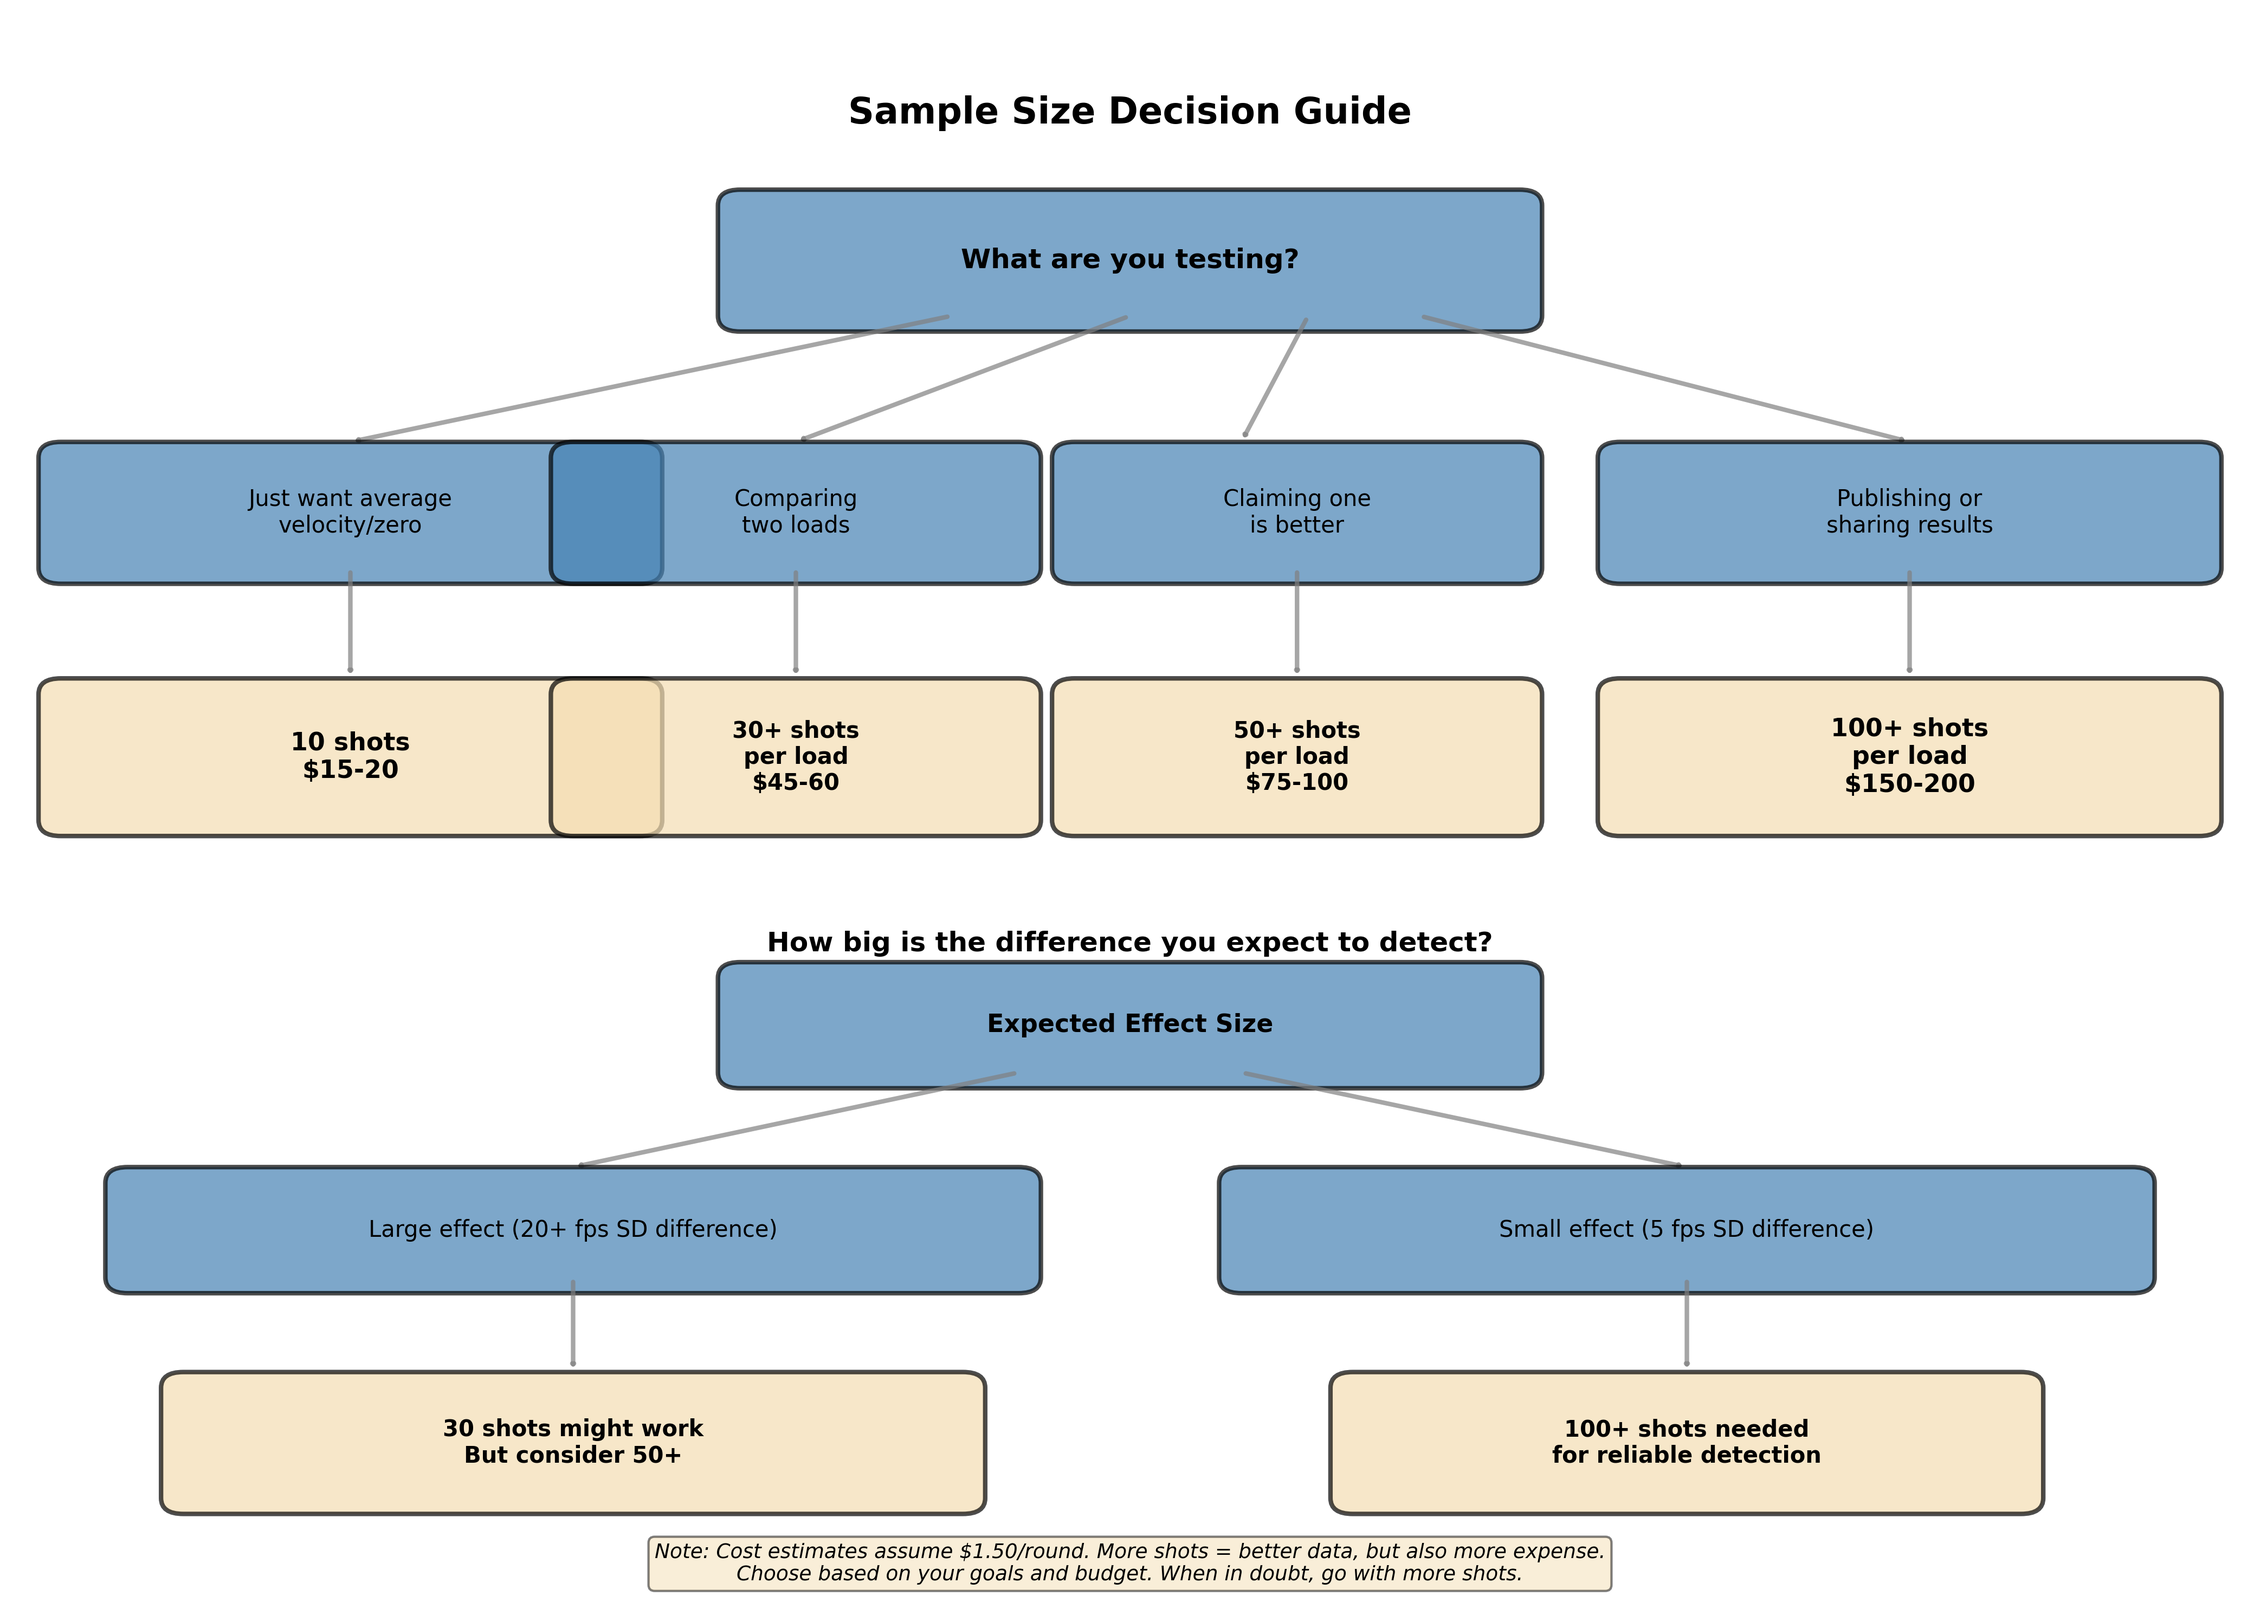
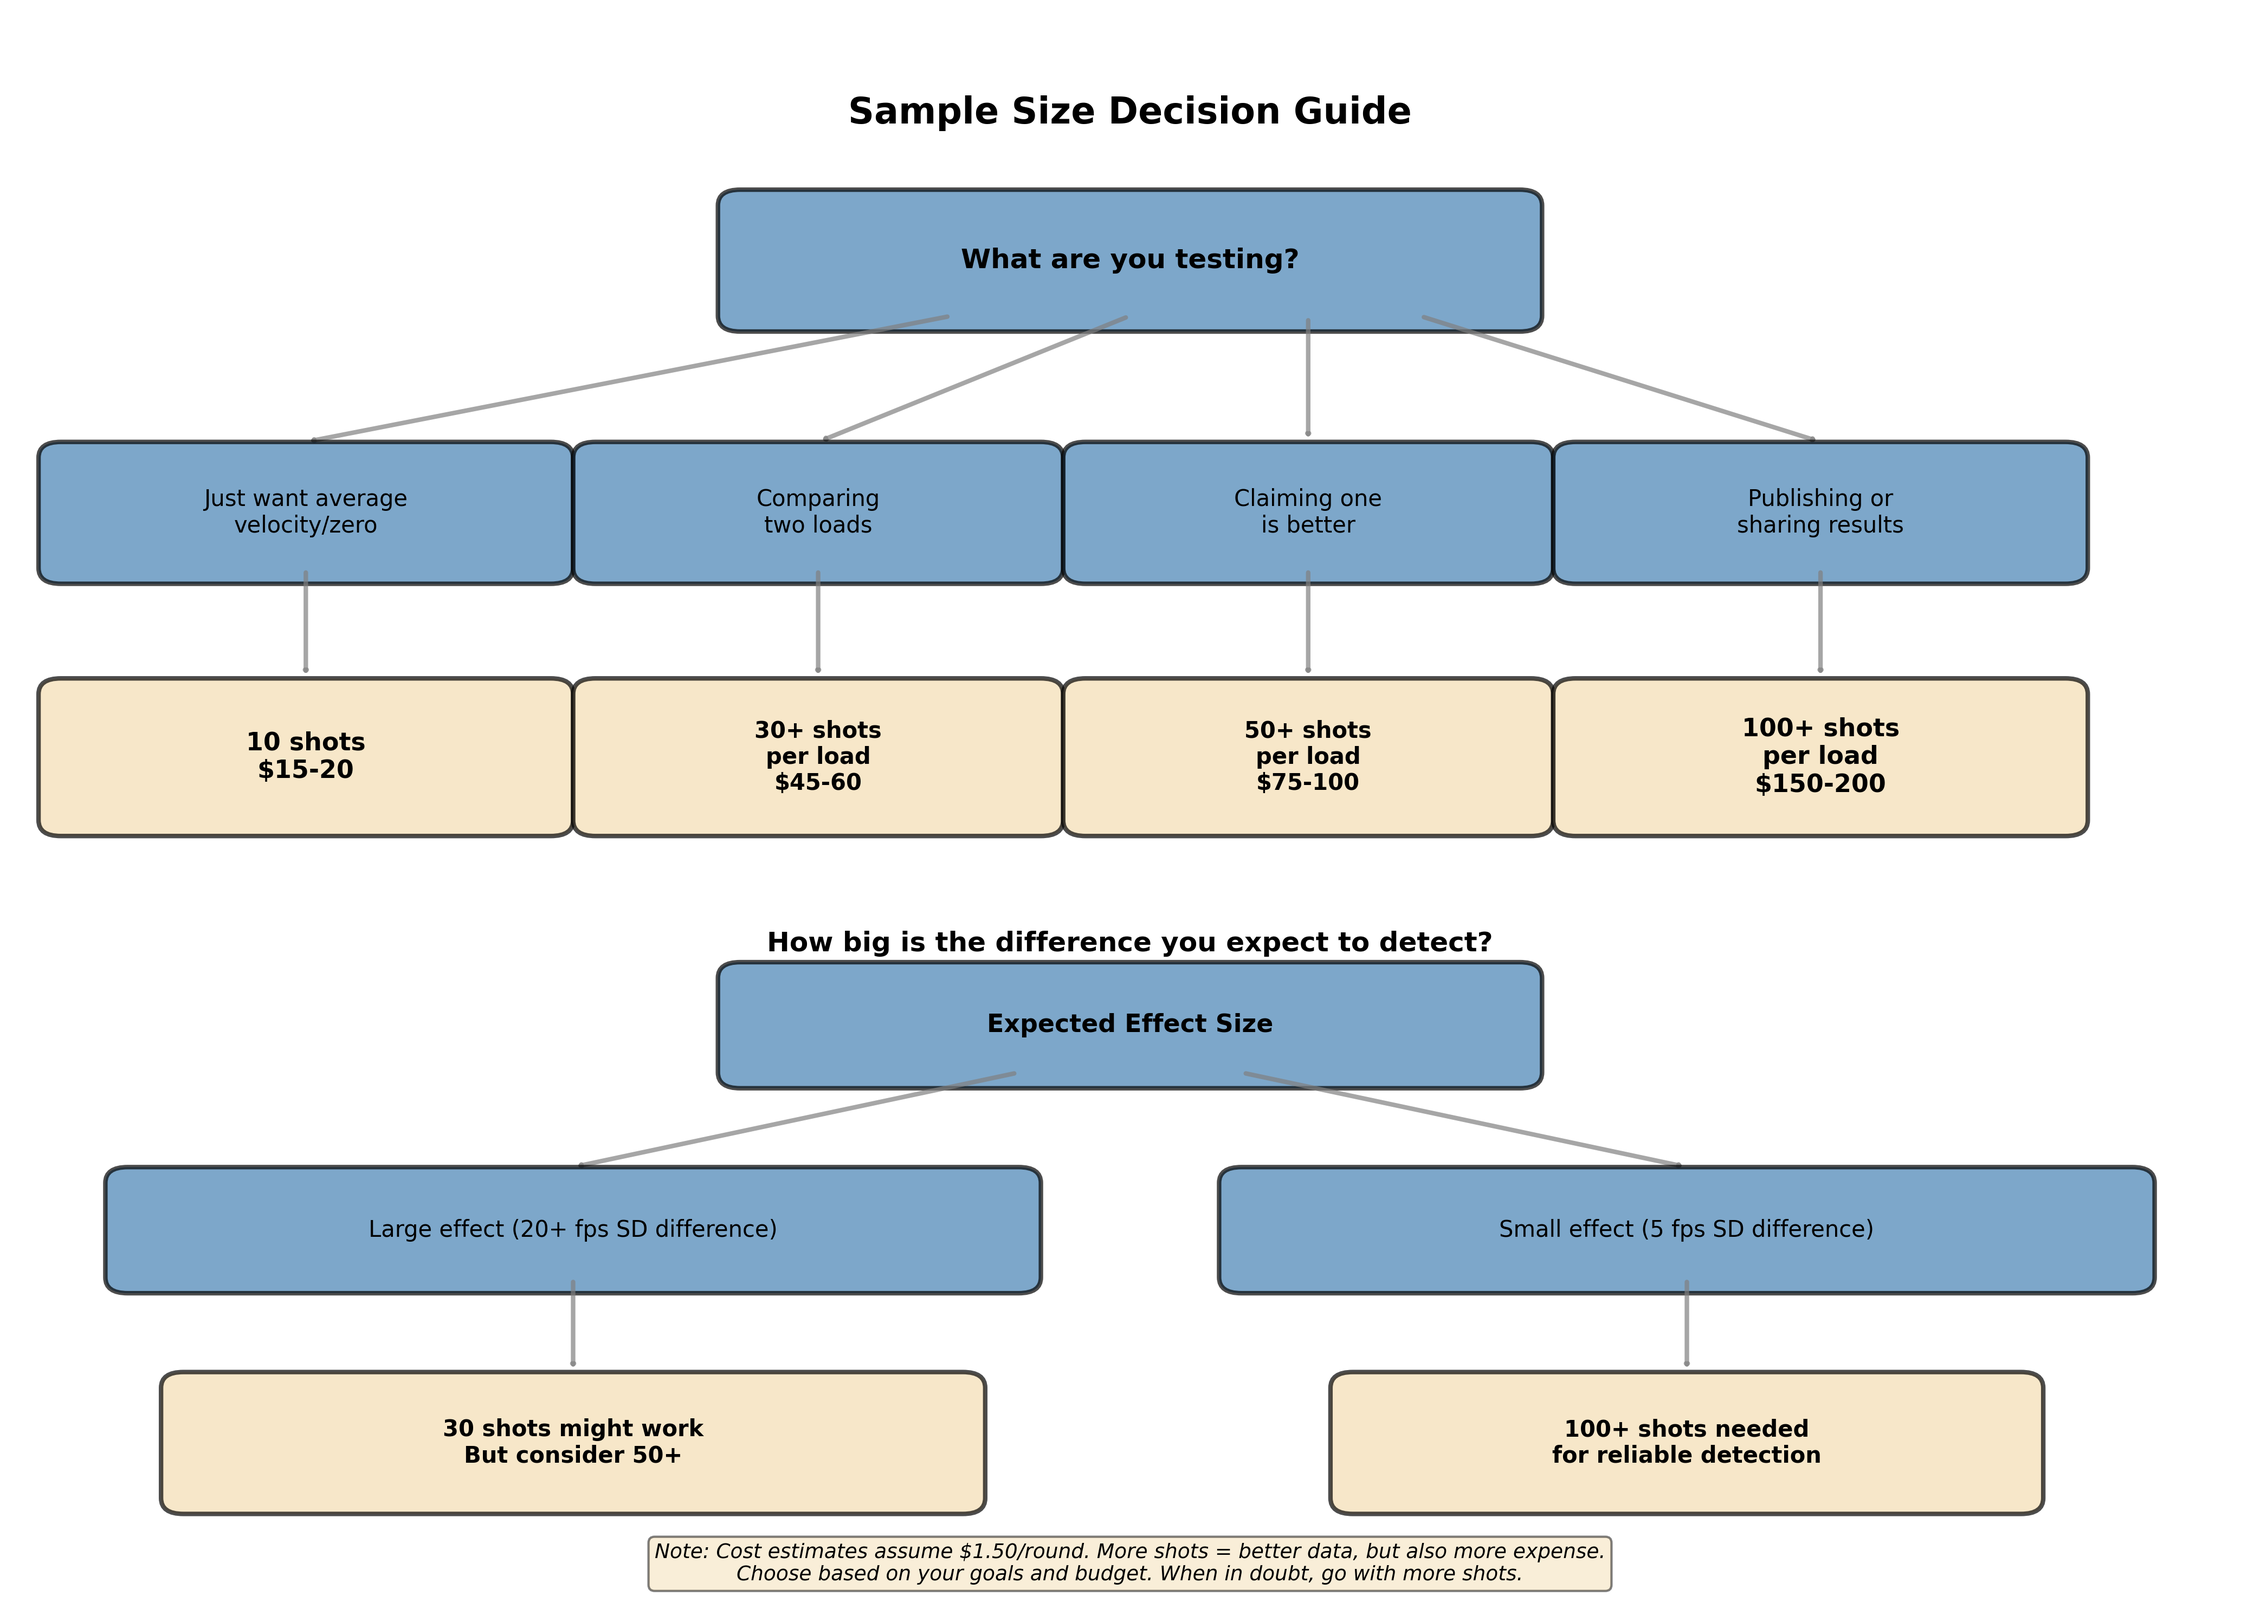
Plot adjustment

diff --git a/scripts/plot_03_10_sample_size_decision_tree.py b/scripts/plot_03_10_sample_size_decision_tree.py
@@ -127,29 +127,29 @@ ax.text(5, 9.5, 'Sample Size Decision Guide',
 # Main question box
 create_box(ax, 3.25, 8.1, 3.5, 0.7, 'What are you testing?', box_color, fontsize=12, fontweight='bold')
 
-# Branch arrows
-create_arrow(ax, 4.2, 8.1, 1.5, 7.3)
-create_arrow(ax, 5, 8.1, 3.5, 7.3)
-create_arrow(ax, 5.8, 8.1, 5.5, 7.3)
-create_arrow(ax, 6.3, 8.1, 8.5, 7.3)
+# Branch arrows (updated to point to new box centers)
+create_arrow(ax, 4.2, 8.1, 1.3, 7.3)
+create_arrow(ax, 5, 8.1, 3.6, 7.3)
+create_arrow(ax, 5.8, 8.1, 5.8, 7.3)
+create_arrow(ax, 6.3, 8.1, 8.1, 7.3)
 
-# Goal boxes
-create_box(ax, 0.2, 6.5, 2.6, 0.7, 'Just want average\nvelocity/zero', box_color, fontsize=10)
-create_box(ax, 2.5, 6.5, 2.0, 0.7, 'Comparing\ntwo loads', box_color, fontsize=10)
-create_box(ax, 4.75, 6.5, 2.0, 0.7, 'Claiming one\nis better', box_color, fontsize=10)
-create_box(ax, 7.2, 6.5, 2.6, 0.7, 'Publishing or\nsharing results', box_color, fontsize=10)
+# Goal boxes (reduced width to prevent overlap)
+create_box(ax, 0.2, 6.5, 2.2, 0.7, 'Just want average\nvelocity/zero', box_color, fontsize=10)
+create_box(ax, 2.6, 6.5, 2.0, 0.7, 'Comparing\ntwo loads', box_color, fontsize=10)
+create_box(ax, 4.8, 6.5, 2.0, 0.7, 'Claiming one\nis better', box_color, fontsize=10)
+create_box(ax, 7.0, 6.5, 2.2, 0.7, 'Publishing or\nsharing results', box_color, fontsize=10)
 
-# Arrows to recommendations
-create_arrow(ax, 1.5, 6.5, 1.5, 5.8)
-create_arrow(ax, 3.5, 6.5, 3.5, 5.8)
-create_arrow(ax, 5.75, 6.5, 5.75, 5.8)
-create_arrow(ax, 8.5, 6.5, 8.5, 5.8)
+# Arrows to recommendations (aligned with box centers)
+create_arrow(ax, 1.3, 6.5, 1.3, 5.8)
+create_arrow(ax, 3.6, 6.5, 3.6, 5.8)
+create_arrow(ax, 5.8, 6.5, 5.8, 5.8)
+create_arrow(ax, 8.1, 6.5, 8.1, 5.8)
 
-# Recommendation boxes (first row)
-create_box(ax, 0.2, 4.9, 2.6, 0.8, '10 shots\n$15-20', endpoint_color, fontsize=11, fontweight='bold')
-create_box(ax, 2.5, 4.9, 2.0, 0.8, '30+ shots\nper load\n$45-60', endpoint_color, fontsize=10, fontweight='bold')
-create_box(ax, 4.75, 4.9, 2.0, 0.8, '50+ shots\nper load\n$75-100', endpoint_color, fontsize=10, fontweight='bold')
-create_box(ax, 7.2, 4.9, 2.6, 0.8, '100+ shots\nper load\n$150-200', endpoint_color, fontsize=11, fontweight='bold')
+# Recommendation boxes (first row, aligned with goal boxes above)
+create_box(ax, 0.2, 4.9, 2.2, 0.8, '10 shots\n$15-20', endpoint_color, fontsize=11, fontweight='bold')
+create_box(ax, 2.6, 4.9, 2.0, 0.8, '30+ shots\nper load\n$45-60', endpoint_color, fontsize=10, fontweight='bold')
+create_box(ax, 4.8, 4.9, 2.0, 0.8, '50+ shots\nper load\n$75-100', endpoint_color, fontsize=10, fontweight='bold')
+create_box(ax, 7.0, 4.9, 2.2, 0.8, '100+ shots\nper load\n$150-200', endpoint_color, fontsize=11, fontweight='bold')
 
 # Second decision branch - Effect size
 ax.text(5, 4.2, 'How big is the difference you expect to detect?',
